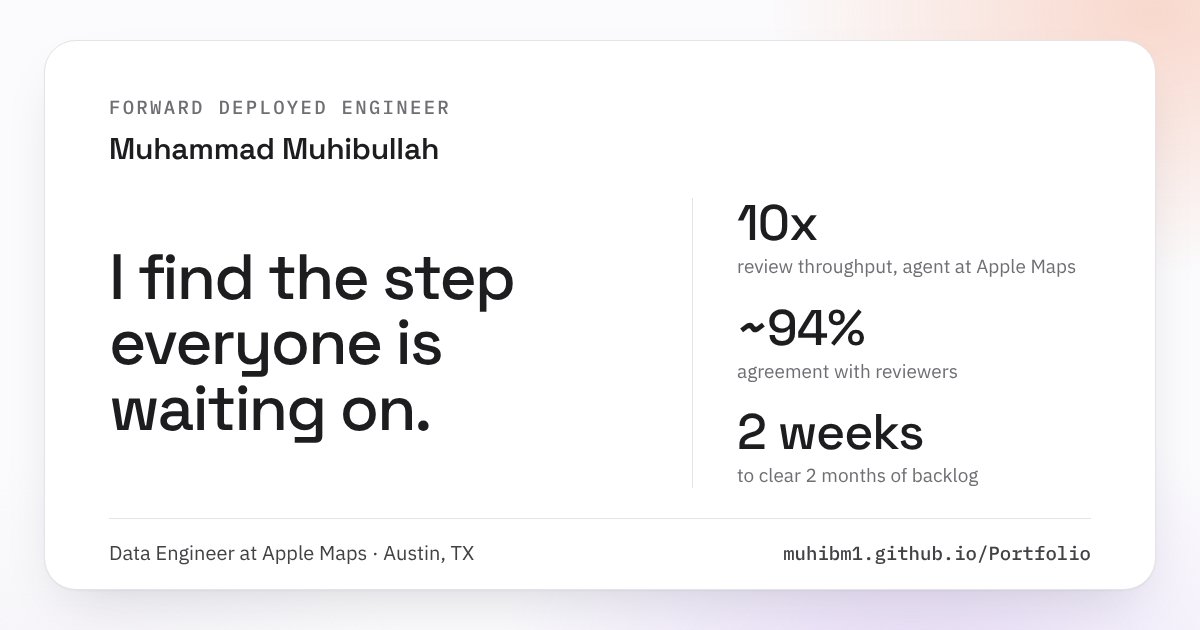
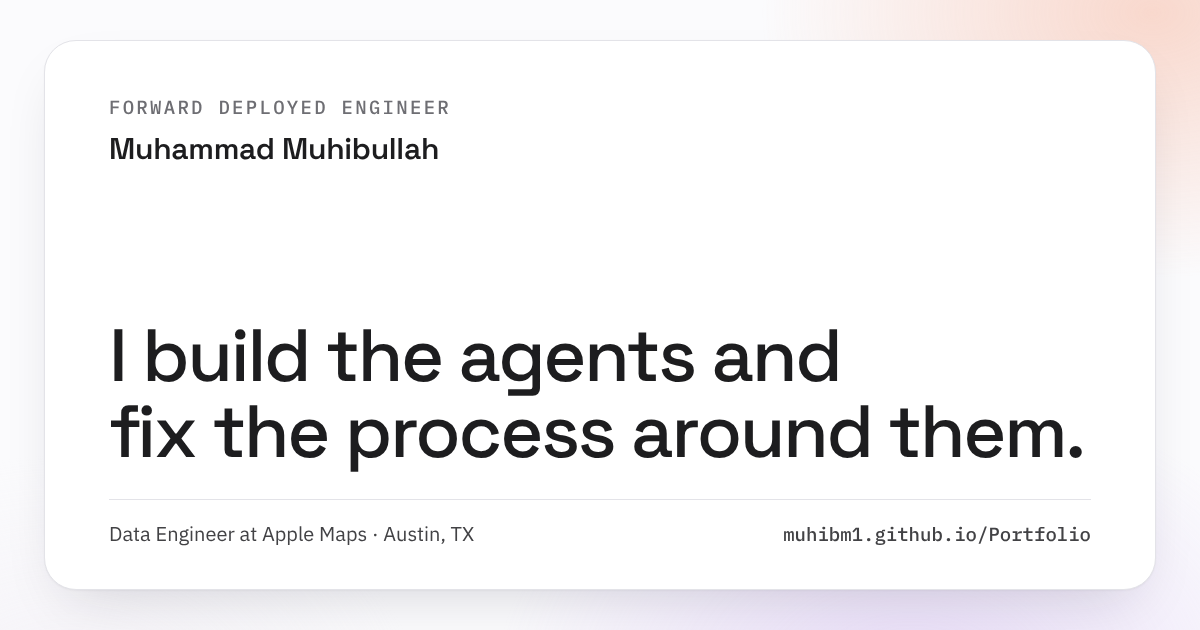
feat: the link preview shows the headline only, with the owner's chosen line

diff --git a/src/data/portfolioData.test.js b/src/data/portfolioData.test.js
@@ -1012,14 +1012,14 @@ describe("portfolioData", () => {
     expect([...numerals].every((numeral) => ["30", "350", "2", "2025", "5", "15", "3", "94", "500", "000", "4"].includes(numeral))).toBe(true);
   });
 
-  it("carries the share image's aria-label and lead stat and no decided wording (R8, redesigned 2026-10-27)", () => {
+  it("carries the share image's aria-label and headline and no decided wording (R8, redesigned 2026-10-27)", () => {
     const svgPath = path.resolve(path.dirname(fileURLToPath(import.meta.url)), "../../docs/design/og.svg");
     const svg = readFileSync(svgPath, "utf8");
 
     expect(svg).toContain(
-      'aria-label="Muhammad Muhibullah, Forward Deployed Engineer. I find the step everyone is waiting on. 10x review throughput',
+      'aria-label="Muhammad Muhibullah, Forward Deployed Engineer. I build the agents and fix the process around them."',
     );
-    expect(svg).toContain('<div class="v">10x</div><div class="l">review throughput, agent at Apple Maps</div>');
+    expect(svg).toContain('<h1>I build the agents and<br/>fix the process around them.</h1>');
     expect(svg).not.toMatch(/Tickets decided|decided a day/);
   });
 
